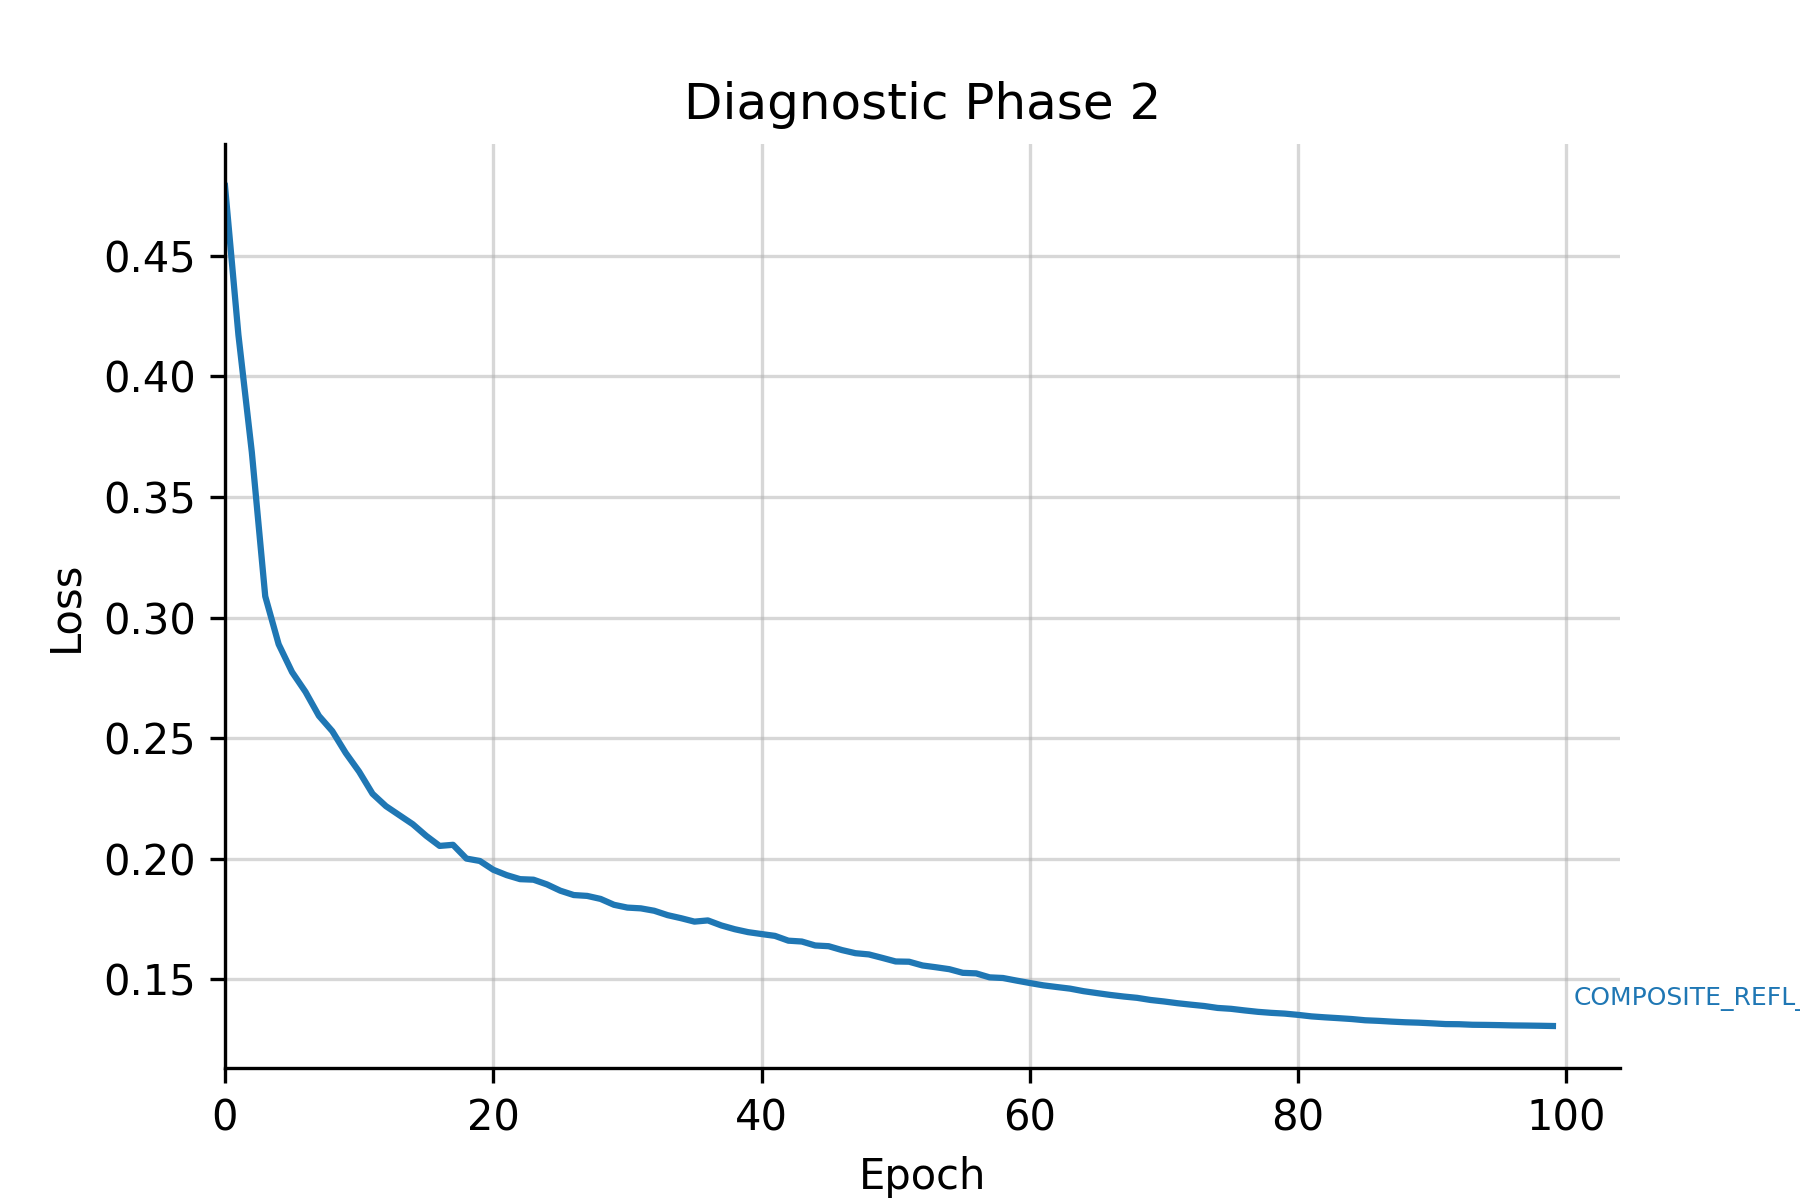
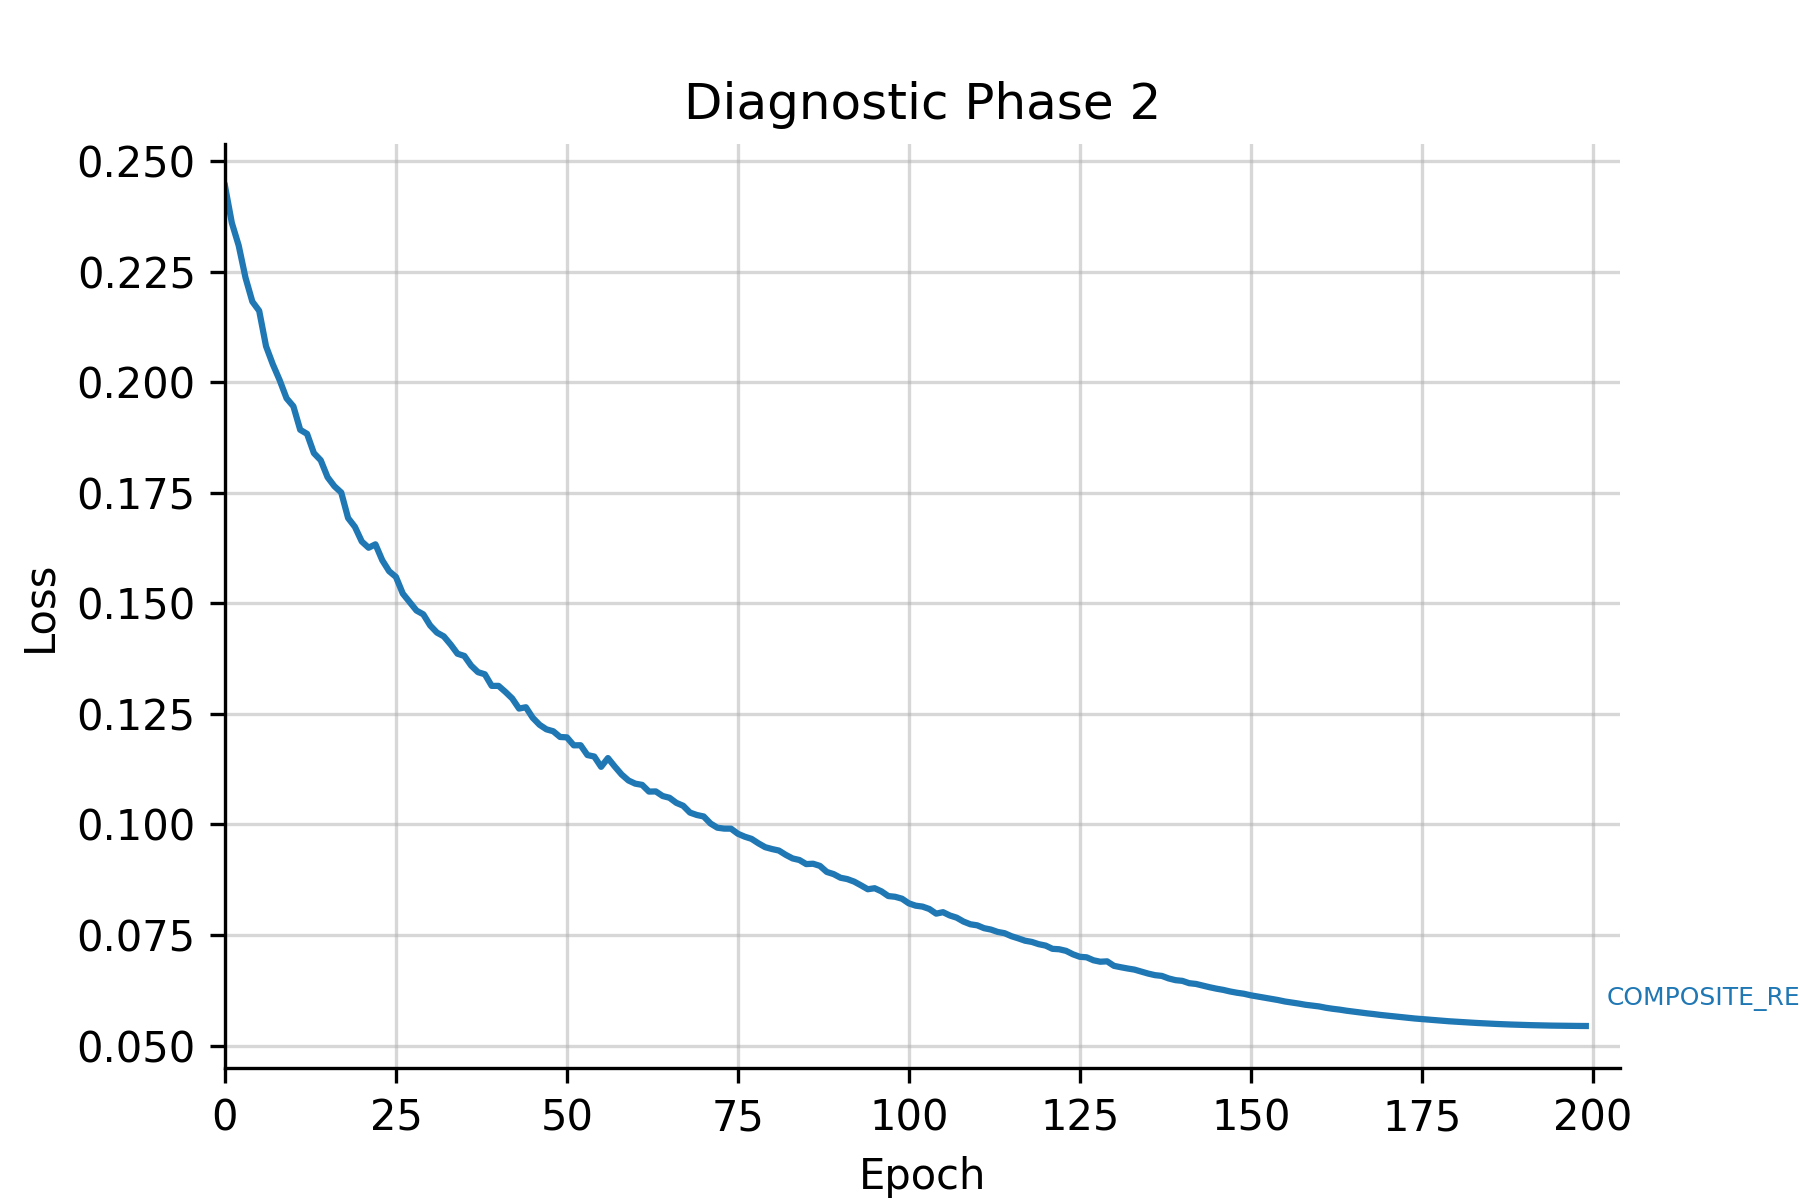
Merged develop

diff --git a/training_pipeline/train_model/train_wofscast.py b/training_pipeline/train_model/train_wofscast.py
@@ -68,7 +68,7 @@ if __name__ == '__main__':
     # Number of samples processed during a single gradient descent step
     # If using multiple GPUs, batch_size / n_gpus samples are sent 
     # to each GPU. 
-    batch_size = 32
+    batch_size = 48#32
     
     loss_weights = {
                     # Any variables not specified here are weighted as 1.0.
@@ -129,8 +129,8 @@ if __name__ == '__main__':
         # For general training, we adopt the linear increase in learning rate 
         # during a 'warm-up' period followed by a cosine decay in learning rate
         
-        warmup_steps = 5
-        decay_steps = 6
+        warmup_steps = int(8192/batch_size)
+        decay_steps = int(8192/batch_size)*500
         n_steps = warmup_steps + decay_steps
         
         scheduler = optax.warmup_cosine_decay_schedule(
@@ -177,8 +177,8 @@ if __name__ == '__main__':
                  # is the named used for the Weights & Biases project. 
                  out_path = out_path,
                  
-                 checkpoint_interval = 5, # How often to save the weights (in terms of epochs) 
-                 verbose = 1, # Set to 3 to get all possible printouts
+                 checkpoint_interval = 500, # How often to save the weights (in terms of epochs) 
+                 verbose = 2, # Set to 3 to get all possible printouts
                  loss_weights = loss_weights,
                  parallel = True,
                  graphcast_pretrain = graphcast_pretrain
@@ -195,7 +195,7 @@ if __name__ == '__main__':
     generator = ZarrDataGenerator(paths, 
                               task_config, 
                               target_lead_times=None,
-                              batch_size=32, 
+                              batch_size=batch_size, 
                               num_devices=2, 
                               preprocess_fn=add_local_solar_time,
                               prefetch_size=3

diff --git a/wofscast/model.py b/wofscast/model.py
@@ -479,7 +479,10 @@ class WoFSCastModel:
                 if self.verbose > 1:
                     print('Saving model params....')    
                 self.save(model_params_replicated, state)
-                
+            if step % 5000 == 0:
+              print('Saving checkpoint....') 
+              self.save(model_params_replicated, state, step)
+
         # Save the final model params 
         print('Saving the final model...')
         self.save(model_params_replicated, state)
@@ -645,7 +648,7 @@ class WoFSCastModel:
                       'diffs_stddev_by_level' : diffs_stddev_by_level
                      }
         
-    def save(self, model_params, state):
+    def save(self, model_params, state, step=False):
         """Checkpoint the model parameters including task and model configs."""
         # Unreplicate model_params 
         # Using the suggested change from https://github.com/google/jax/discussions/15972
@@ -660,6 +663,11 @@ class WoFSCastModel:
         #print('\n Checkpoint the model parameters...')
         with open(self.out_path, 'wb') as io_byte:
             checkpoint.dump(io_byte, model_data)
+
+        if step:
+          out_path = self.out_path.replace('.npz', '_%d.npz' % step)
+          with open(out_path, 'wb') as io_byte:
+              checkpoint.dump(io_byte, model_data)
              
  
 def modify_path_if_exists(original_path):

diff --git a/wofscast/graphcast_lam.py b/wofscast/graphcast_lam.py
@@ -224,7 +224,7 @@ class GraphCast(predictor_base.Predictor):
         mlp_hidden_size=model_config.latent_size,
         mlp_num_hidden_layers=model_config.hidden_layers,
         num_message_passing_steps=1,
-        use_layer_norm=False, # Paper says this is suppose to be False!!
+        use_layer_norm=True,#False, # Paper says this is suppose to be False!!
         include_sent_messages_in_node_update=False,
         activation="swish",
         f32_aggregation=False,
